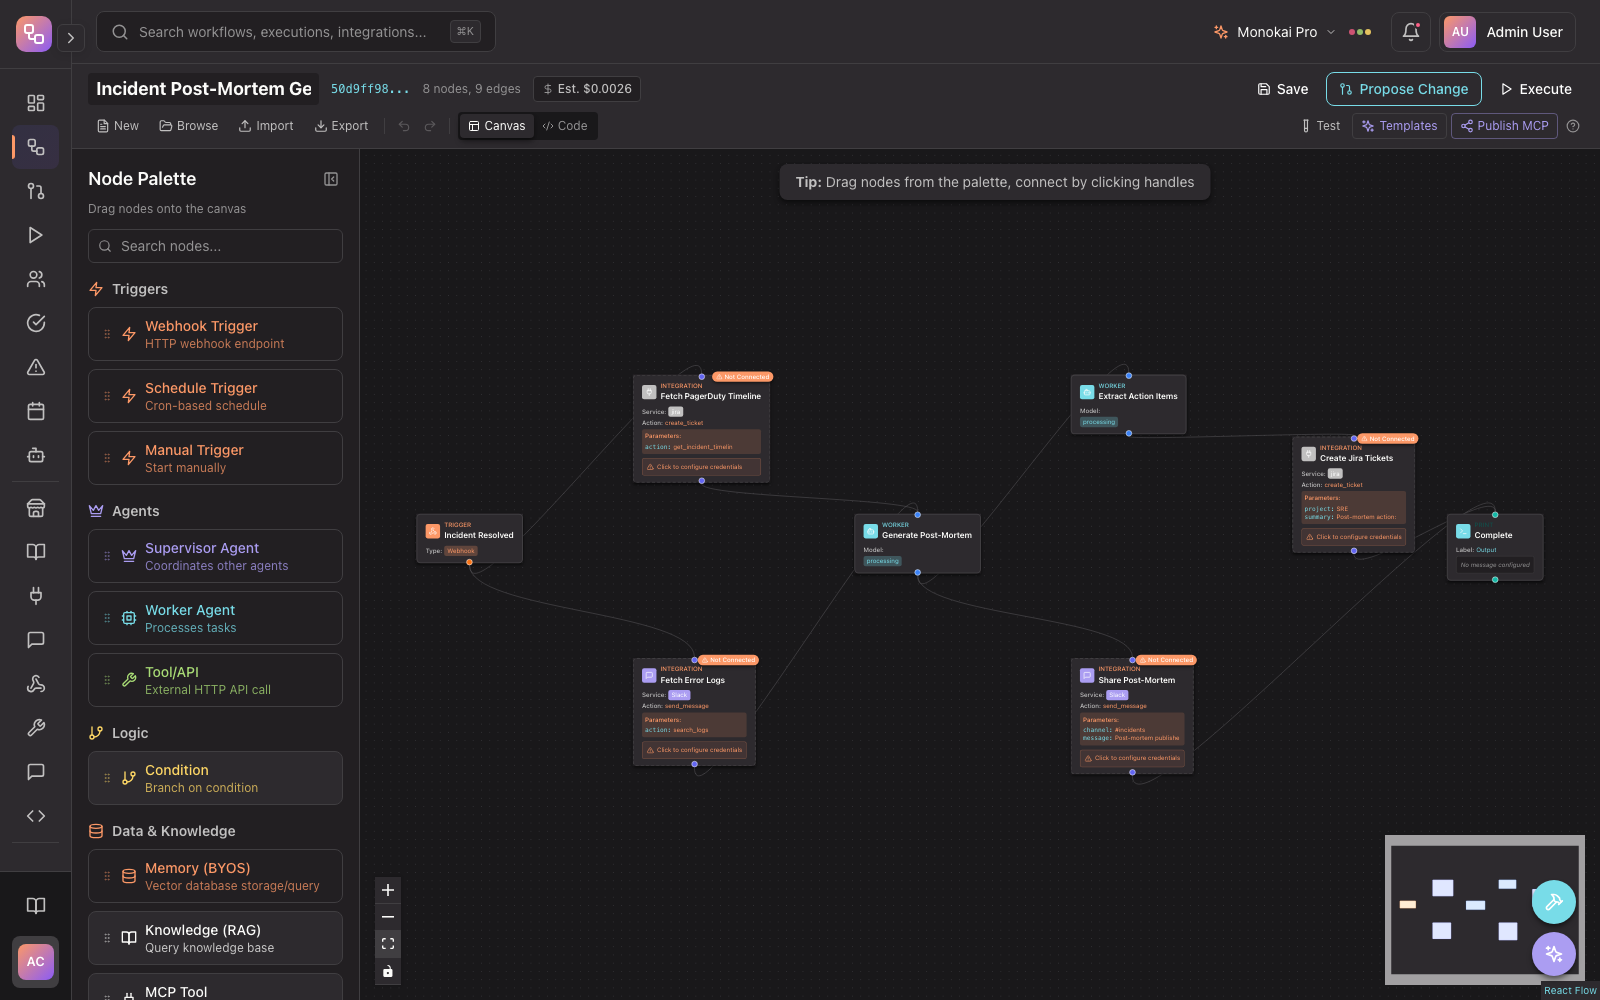
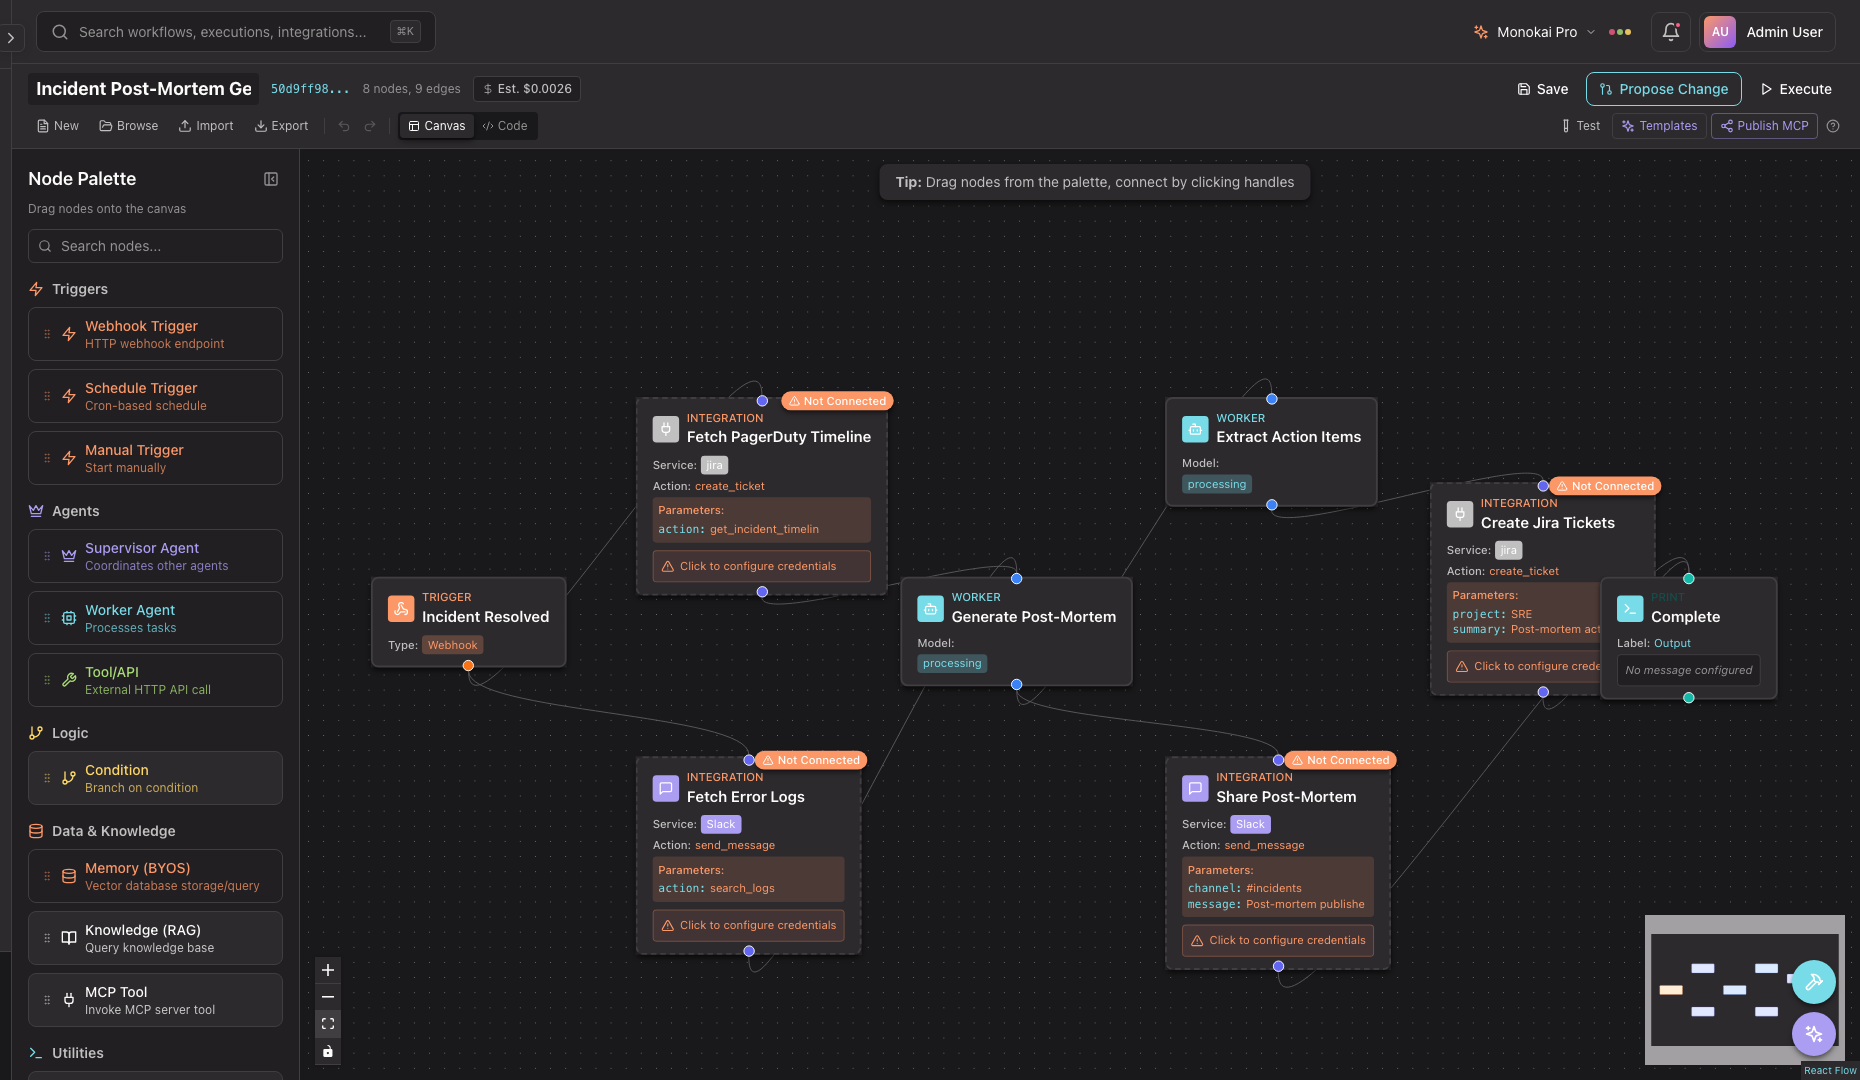
Update pricing page and workflow screenshot
Pricing: remove all "unlimited" language, cap all tiers
- Free: 100 exec/mo (was 500)
- Pro: 50 workflows (was unlimited)
- Business: 200 workflows (was unlimited)
- Enterprise: all "Custom" (was unlimited)
- Comparison table updated to match

Screenshot: closer node spacing for readability

diff --git a/src/app/(marketing)/pricing/page.tsx b/src/app/(marketing)/pricing/page.tsx
@@ -15,7 +15,7 @@ const tiers = [
     features: [
       '1 user',
       '3 active workflows',
-      '500 executions/month',
+      '100 executions/month',
       'All 40+ node types',
       '5 starter templates',
       '2 LLM providers',
@@ -34,7 +34,7 @@ const tiers = [
     popular: true,
     features: [
       '5 users (+ $15/extra)',
-      'Unlimited workflows',
+      '50 workflows',
       '10,000 executions/month',
       'All LLM providers & routing strategies',
       'Full code-canvas sync',
@@ -55,6 +55,7 @@ const tiers = [
     ctaStyle: 'border border-brand-500 bg-white dark:bg-mono-surface/40 text-brand-600 dark:text-brand-400 hover:bg-brand-50 dark:hover:bg-mono-surface/60',
     features: [
       '25 users (+ $25/extra)',
+      '200 workflows',
       '50,000 executions/month',
       'Change control with approval gates',
       'SSO / SAML / OIDC',
@@ -74,7 +75,7 @@ const tiers = [
     cta: 'Talk to Sales',
     ctaStyle: 'border border-gray-300 dark:border-mono-border bg-white dark:bg-mono-surface/40 text-gray-700 dark:text-mono-body hover:bg-gray-100 dark:hover:bg-mono-surface/60',
     features: [
-      'Unlimited users & executions',
+      'Custom users & executions',
       'Everything in Business',
       'SOC 2, HIPAA, GDPR, ISO 27001',
       'BYOK encryption',
@@ -105,9 +106,9 @@ const comparisonGroups: ComparisonGroup[] = [
   {
     category: 'Usage & Limits',
     rows: [
-      { feature: 'Active Workflows', free: '3', pro: 'Unlimited', business: 'Unlimited', enterprise: 'Unlimited' },
-      { feature: 'Executions / month', free: '500', pro: '10,000', business: '50,000', enterprise: 'Unlimited' },
-      { feature: 'Team Members', free: '1', pro: '5', business: '25', enterprise: 'Unlimited' },
+      { feature: 'Active Workflows', free: '3', pro: '50', business: '200', enterprise: 'Custom' },
+      { feature: 'Executions / month', free: '100', pro: '10,000', business: '50,000', enterprise: 'Custom' },
+      { feature: 'Team Members', free: '1', pro: '5', business: '25', enterprise: 'Custom' },
     ],
   },
   {
